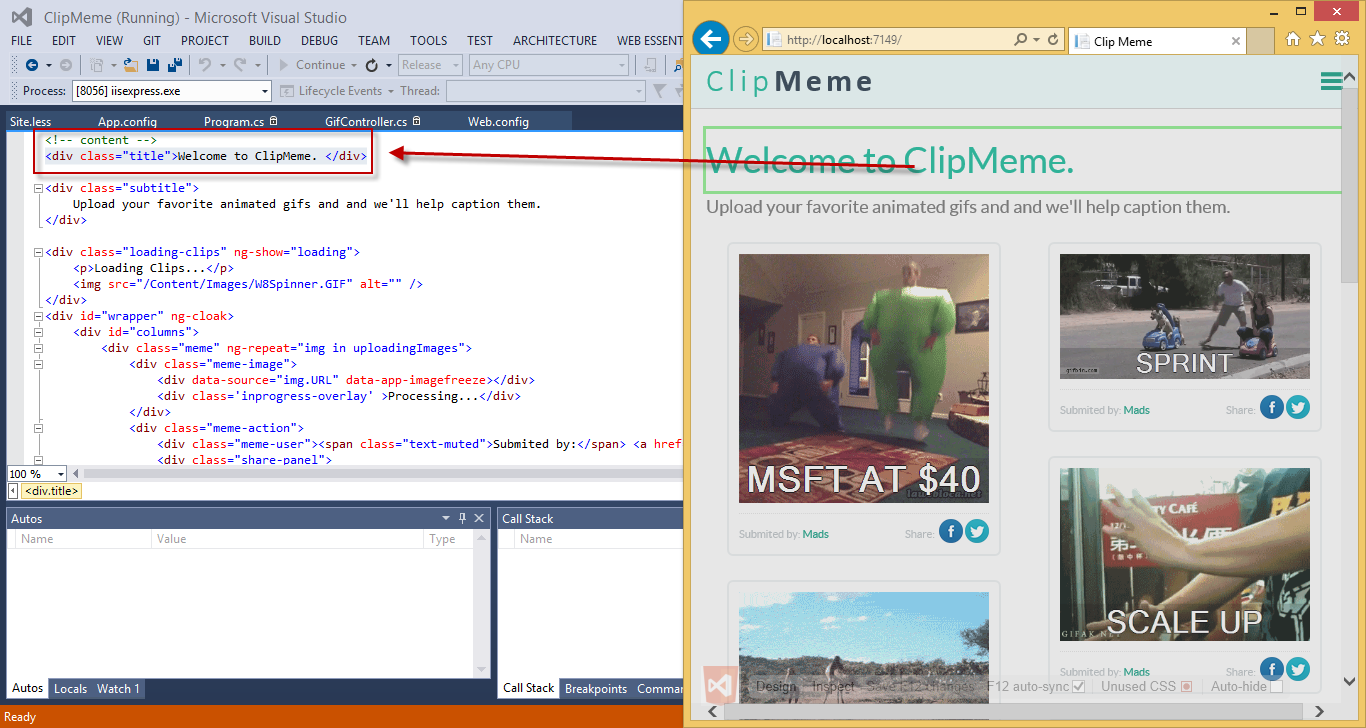
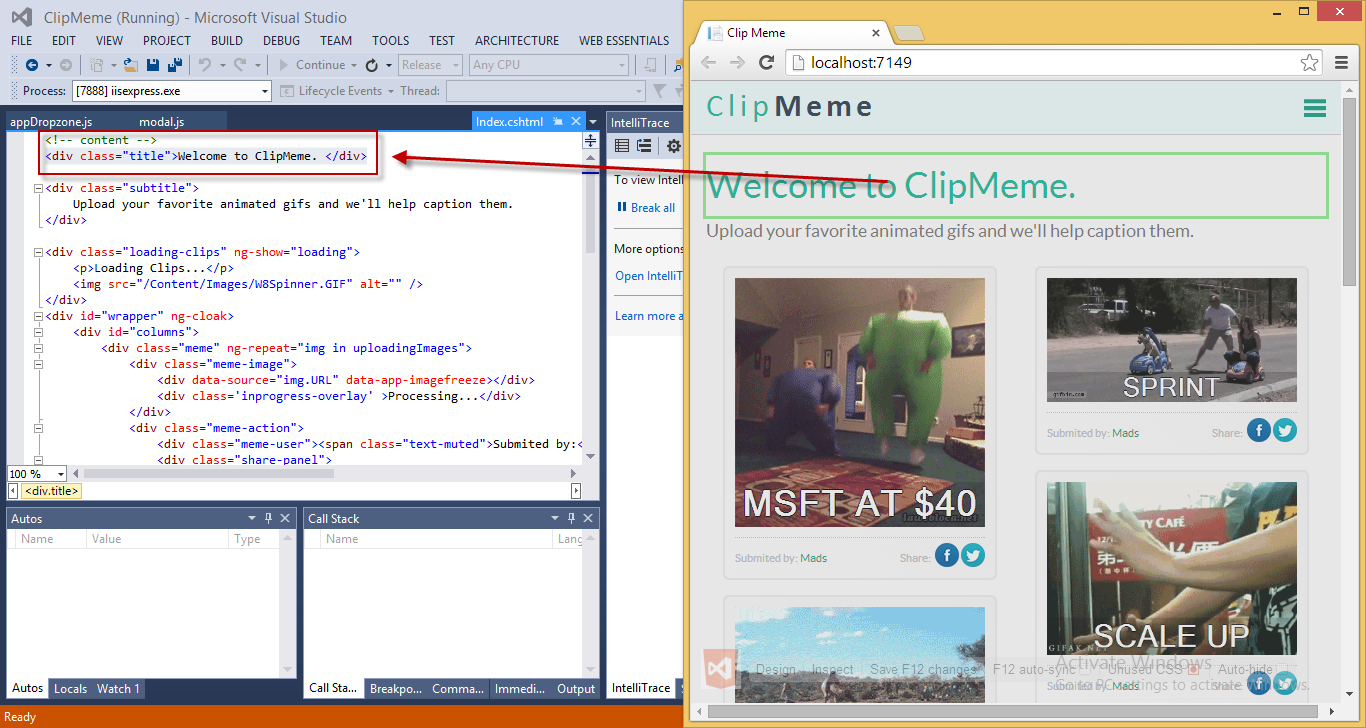
[Demo-ClipMeme] Removed bookmarks from Chrome screenshots

diff --git a/Demos/Demo-ClipMeme/demo.md b/Demos/Demo-ClipMeme/demo.md
@@ -293,13 +293,19 @@ This demo is composed of the following segments:
 	
 	_Error list panel_
 
-1. Fix both JSHint issues by adding the semi colon and the ;. 
+1. Double-click on each issue and it will take you to the corresponding line.
 
-	![JSHint issues fixed](Images/jshint-issues-fixed.png?raw=true "JSHint issues fixed")
+	![Before fixing the error](Images/before-fixing-the-error.png?raw=true "Before fixing the error")
+
+	_Before fixing the error_
+
+1. Fix the issues, save the file and show that there are no more issues.
+
+	![After fixing the error](Images/after-fixing-the-error.png?raw=true "After fixing the error")
 	
-	_JSHint issues fixed in directive_
+	_After fixing the error_
 
-	>**Speaking Point:** Show that there are no more issues, close the **Error List** panel and show that querying the DOM from a controller is not a good practise in AngularJS so we need to refactor the code by adding a new directive.
+1. Close the **Error List** panel and show that querying the DOM from a controller is not a good practise in AngularJS so we need to refactor the code by adding a new directive.
 	
 1. Right-click the **/scripts/app/directives** directory and select **Add** | **New item**.
 	
